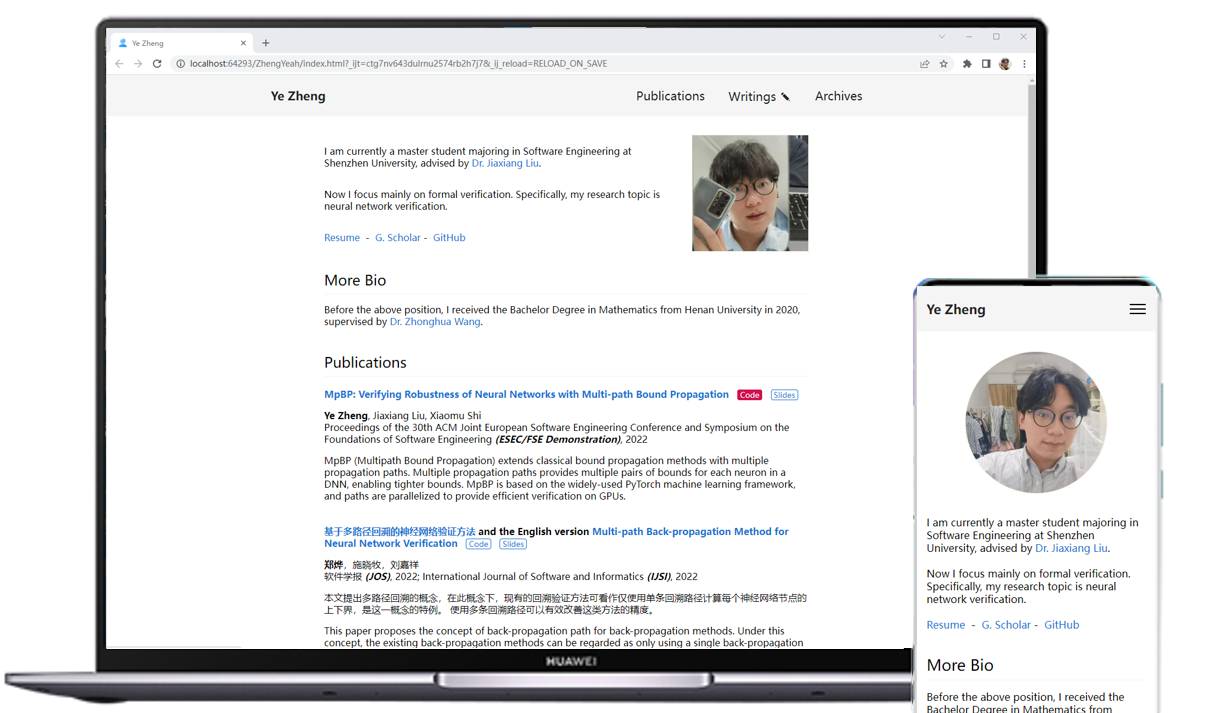
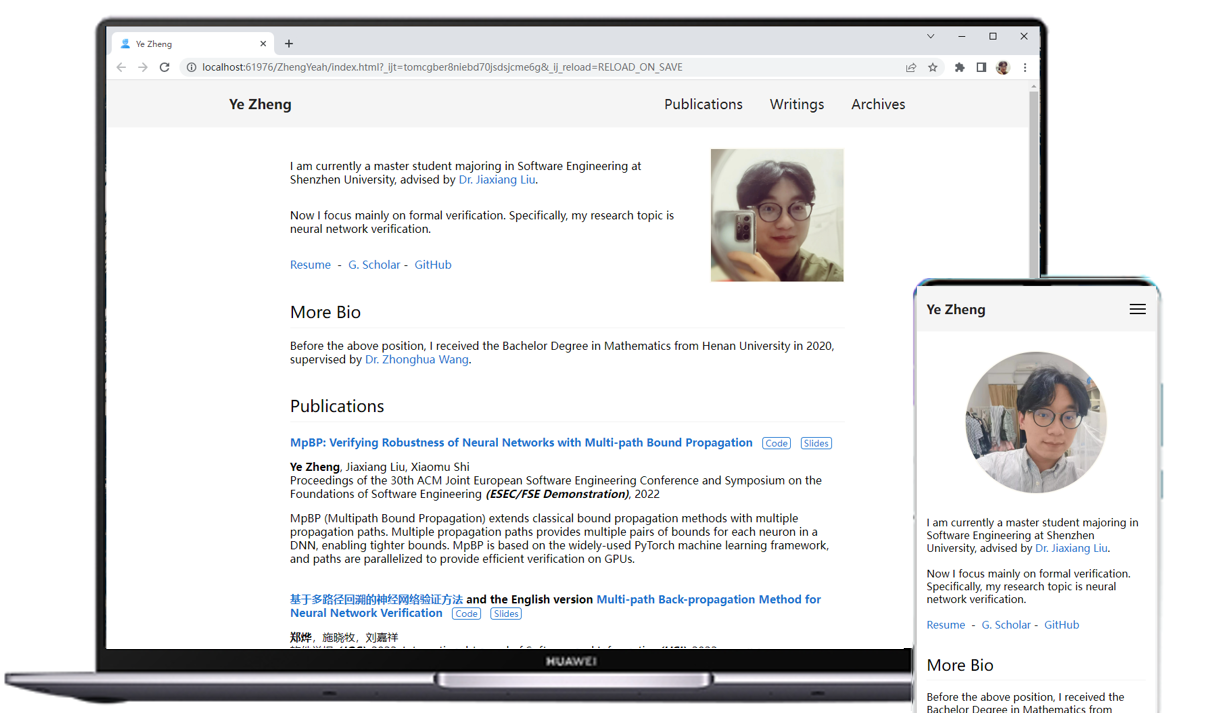
Add contents

diff --git a/script.js b/script.js
@@ -42,7 +42,7 @@ window.addEventListener("resize", () => {
     }
 })
 
-const totalImgNum = 3;
+const totalImgNum = 5;
 const showingImg = document.getElementById("showing-profile");
 let i = 1;
 showingImg.addEventListener("click", () => {
